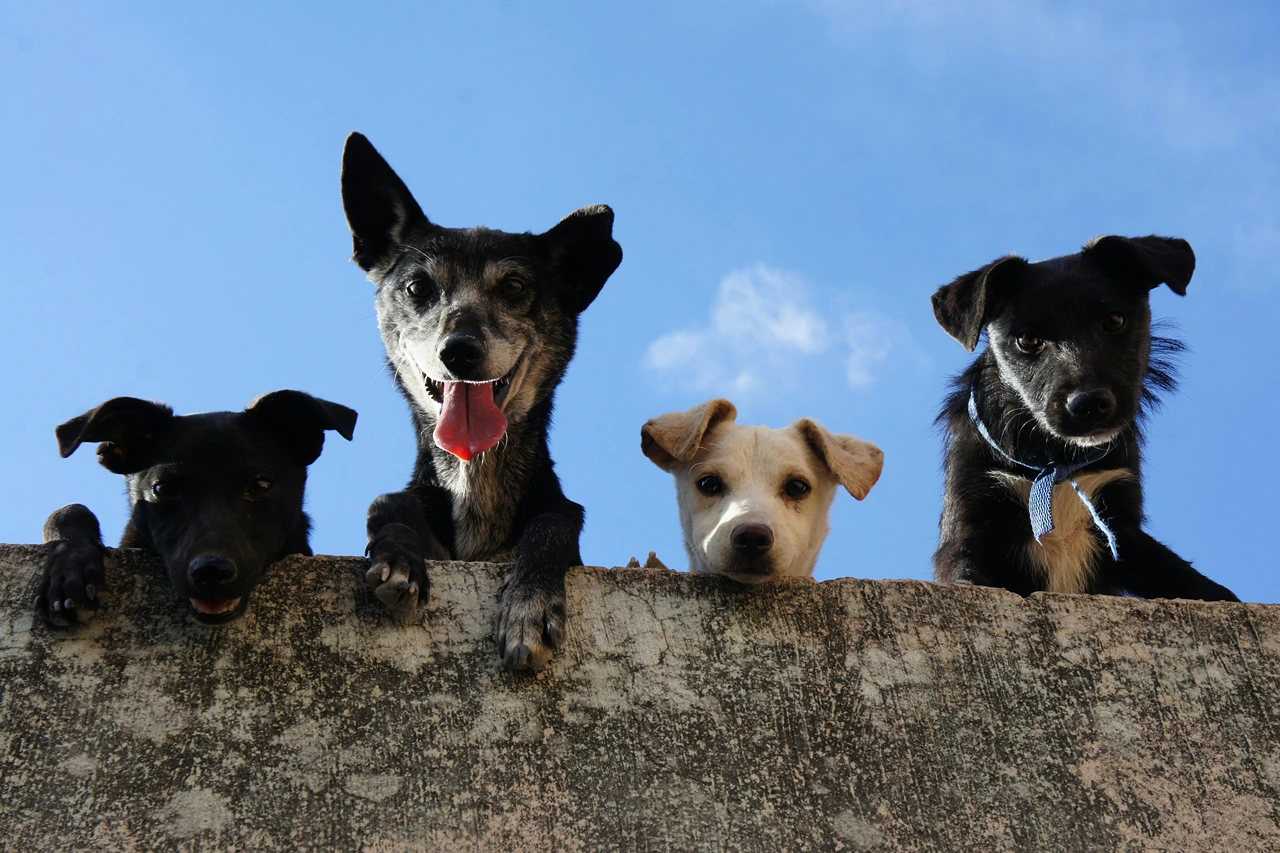
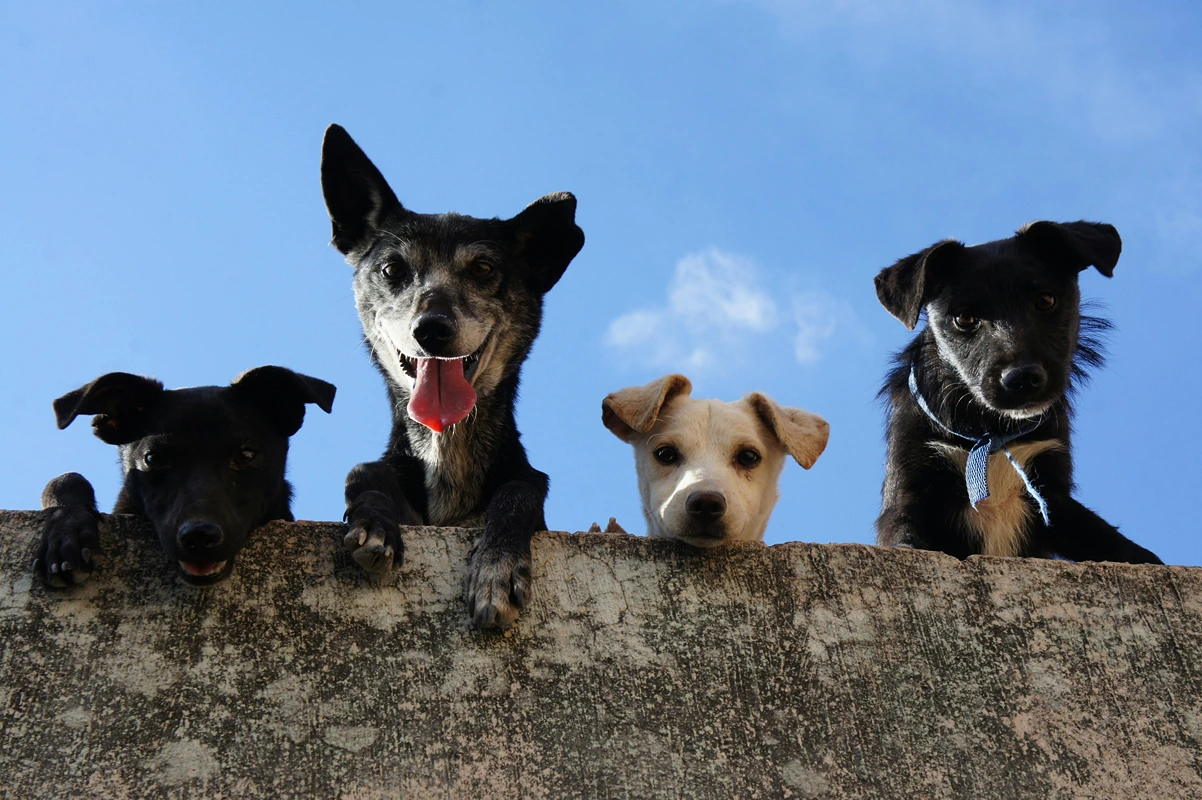
Add new resized hero image for mobile and use old in media query 768px and above

diff --git a/assets/css/style.css b/assets/css/style.css
@@ -80,7 +80,7 @@ main {
     width: 100%;
     height: 400px;
     background-color: aqua;
-    background: url("../images/landing-hero.webp") no-repeat center center/cover;
+    background: url("../images/landing-hero-mobile.webp") no-repeat center center/cover;
 }
 
 /* Cover text styles */
@@ -546,7 +546,7 @@ nav {
     position: absolute;
     white-space: nowrap; 
     width: 1px;
-  }
+}
 
 /* Footer */
 footer {
@@ -599,6 +599,14 @@ footer {
 
 /* Media query for tablets (768px and up) */
 @media screen and (min-width: 768px) {
+
+    /* Hero Section */
+    #hero-image {
+    width: 100%;
+    height: 400px;
+    background-color: aqua;
+    background: url("../images/landing-hero.webp") no-repeat center center/cover;
+}
 
     /* Header */
     nav {

diff --git a/README.md b/README.md
@@ -153,13 +153,14 @@ Finally, the signup page is where we wish to use vibrant and bright colors to co
 
 ## Testing 
 
-In this section, you need to convince the assessor that you have conducted enough testing to legitimately believe that the site works well. Essentially, in this part you will want to go over all of your project’s features and ensure that they all work as intended, with the project providing an easy and straightforward way for the users to achieve their goals.
+### Lighthouse scores
+- **Desktop**
 
-In addition, you should mention in this section how your project looks and works on different browsers and screen sizes.
-
-You should also mention in this section any interesting bugs or problems you discovered during your testing, even if you haven't addressed them yet.
-
-If this section grows too long, you may want to split it off into a separate file and link to it from here.
+![index.html page](docs/home-page-score.png)
+![mates.html page](docs/mates-page-score.png)
+![about.html page](docs/about-page-score.png)
+![adopt.html page](docs/adopt-page-score.png)
+![adopt-feedback.html page](docs/adopt-feedback-score.png)
 
 
 ### Validator Testing 
@@ -169,7 +170,7 @@ If this section grows too long, you may want to split it off into a separate fil
   - **Mates page** No errors were returned when passing through the official [W3C validator](https://validator.w3.org/nu/?doc=https%3A%2F%2Fsimonmoynihan33.github.io%2Ffur-ever-mates-adoption%2Fmates.html)
   - **About page** No errors were returned when passing through the official [W3C validator](https://validator.w3.org/nu/?doc=https%3A%2F%2Fsimonmoynihan33.github.io%2Ffur-ever-mates-adoption%2Fabout.html)
   - **Adopt page** No errors were returned when passing through the official [W3C validator](https://validator.w3.org/nu/?doc=https%3A%2F%2Fsimonmoynihan33.github.io%2Ffur-ever-mates-adoption%2Fadopt.html)
-  - **Adopt feedback page** No errors were returned when passing through the official [W3C validator]
+  - **Adopt feedback page** No errors were returned when passing through the official W3C validator
   
   ![Adopt Feedback](docs/adopt-feedback-validation.png)
 - CSS
